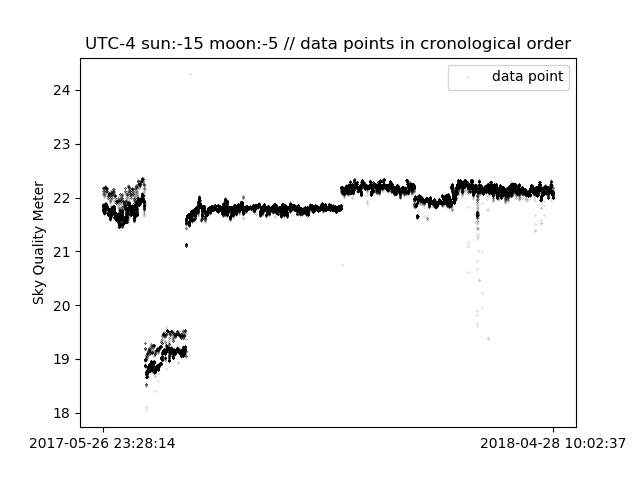
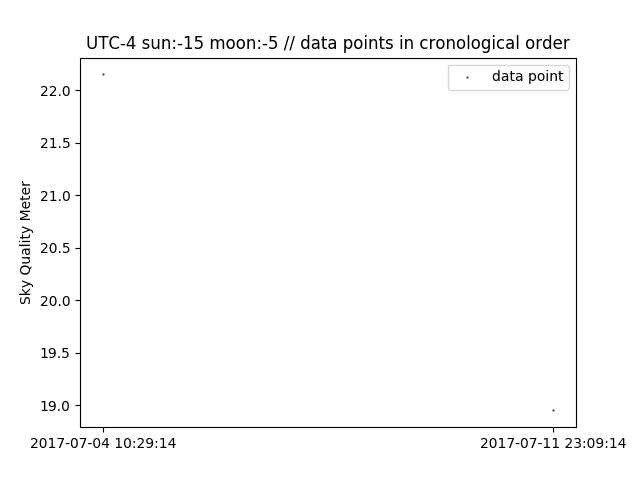
encuentro primer offset

diff --git a/plot1.py b/plot1.py
@@ -17,7 +17,7 @@ colors = ['r', 'y', 'b', 'greenyellow', 'c', 'g', 'black']
 #binSize = 10080 # data points, one per minute, 10.080 a week
 [db_cursor, database] = WS.db_connect()
 search = "SELECT `UTC`, `sqm` FROM `weather` WHERE \
-`UTC` >= '2017-05-26 23:00:00' AND `UTC` <= '2018-07-01 11:00:00' AND \
+`UTC` >= '2017-07-04 10:29:00' AND `UTC` <= '2017-07-11 23:10:00' AND \
 `SunElevation` < -15 AND `MoonElevation` < -5 AND \
 `weatherstatus`= 'Go Science!' ORDER BY `UTC` ASC LIMIT 1000000"
 
@@ -28,12 +28,13 @@ y = []
 x = []
 counter = 0
 for e in res:
+    print e
     x.append(counter)
     y.append(e[1])
     counter += 1
 
 print "There are " + str(counter) + " data points."
-plt.scatter(x, y, 0.01, c='black', alpha=1, label='data point')
+plt.scatter(x, y, 0.2, c='black', alpha=1, label='data point')
 plt.legend()
 plt.title('UTC-4 sun:-15 moon:-5 // data points in cronological order')
 plt.ylabel('Sky Quality Meter')
